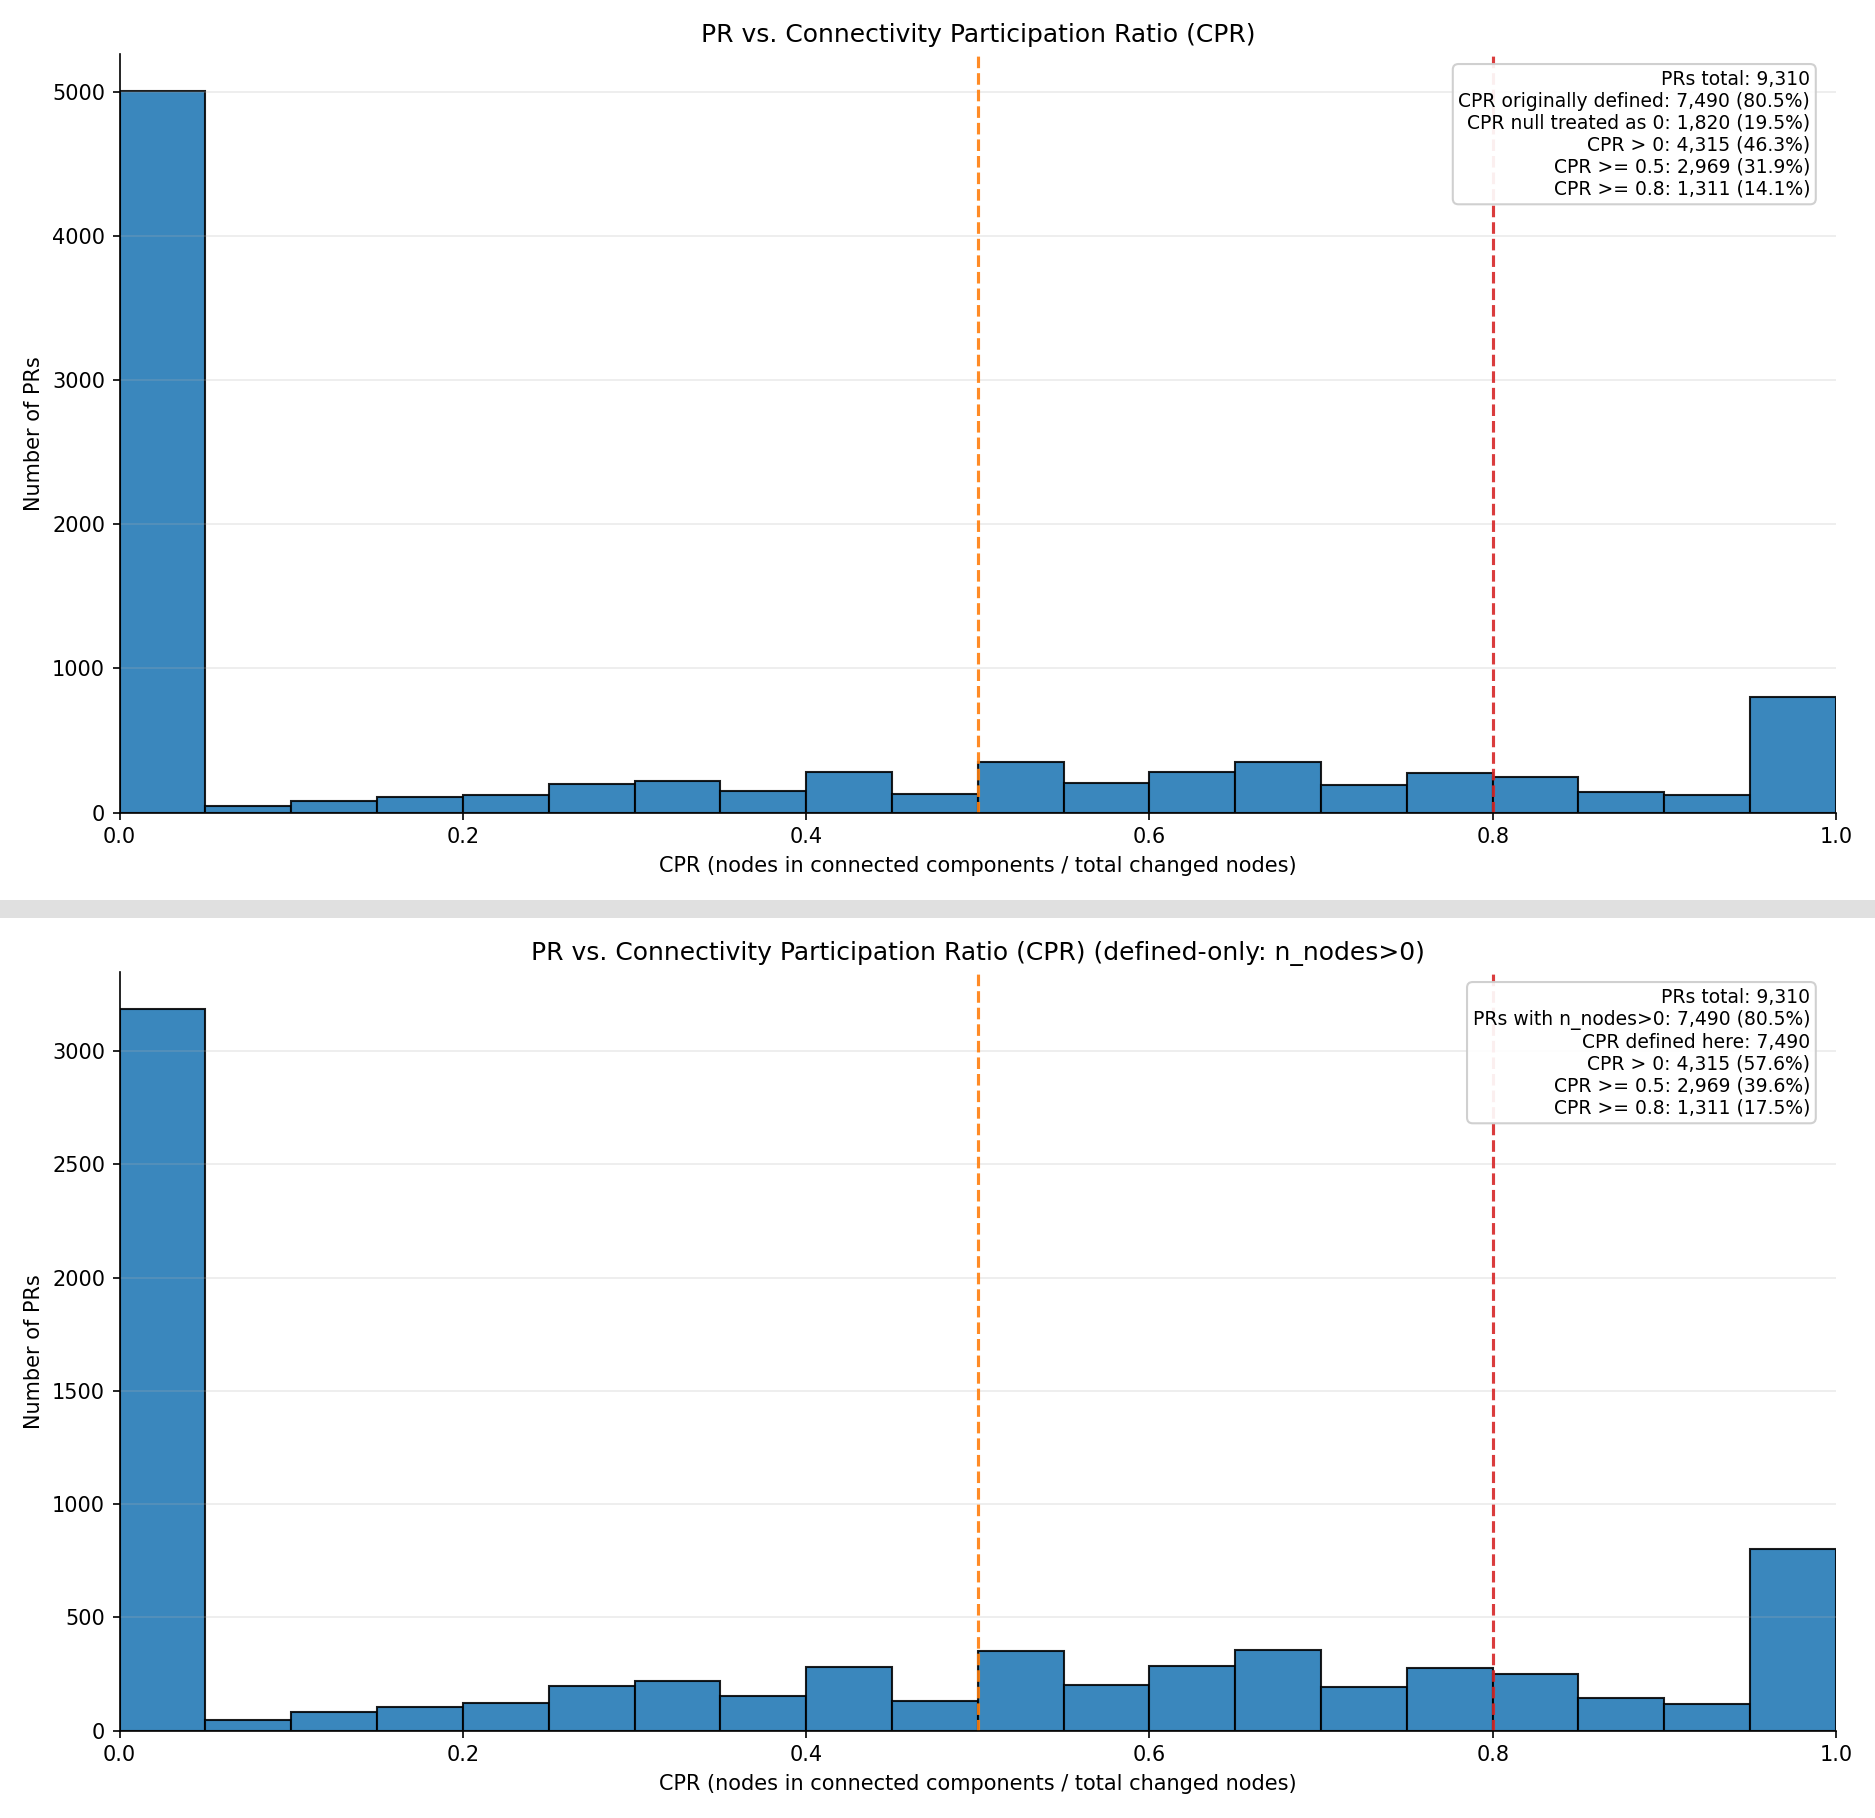
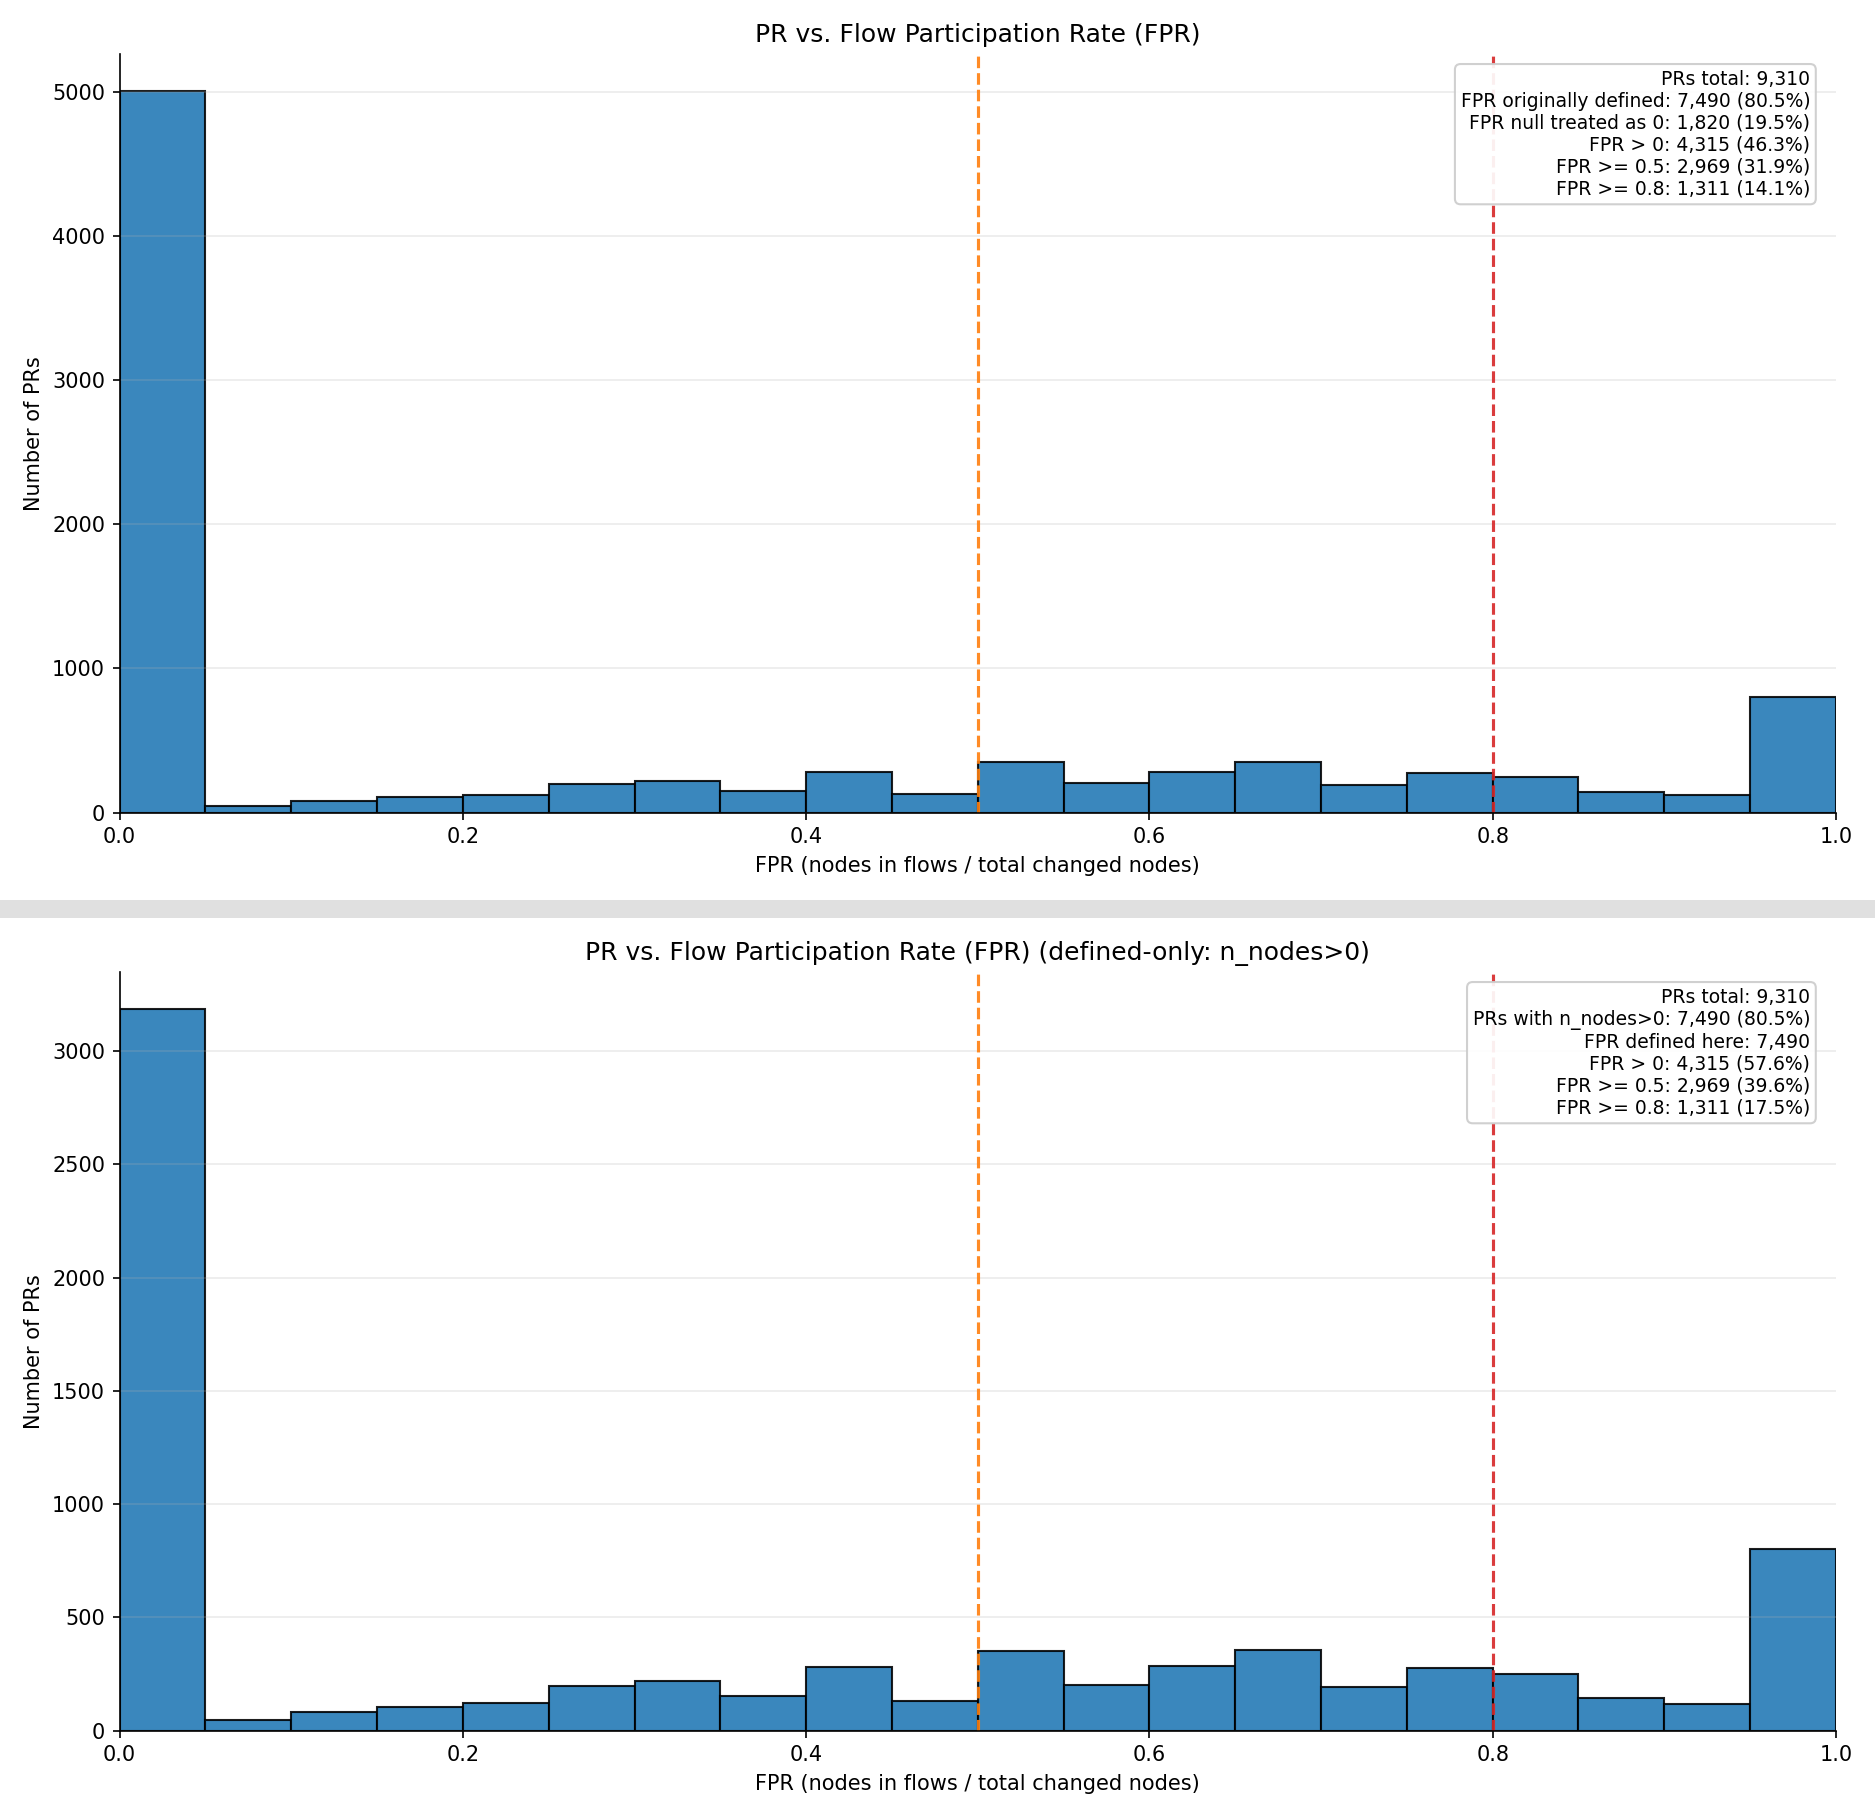
docs: rename connected component to flow

diff --git a/scripts/plot_all_repos_connectivity.py b/scripts/plot_all_repos_connectivity.py
@@ -1,6 +1,6 @@
 #!/usr/bin/env python3
 """
-Plot CPR distribution from aggregate_pr_connectivity.json.
+Plot FPR distribution from aggregate_pr_connectivity.json.
 
 Output:
   viz_output_all_repos/all_repos_pr_connectivity_cpr_histogram.png
@@ -23,13 +23,13 @@ DEFAULT_OUT_DEFINED_ONLY = (
 
 
 def build_parser() -> argparse.ArgumentParser:
-    p = argparse.ArgumentParser(description="Plot CPR distribution across PRs.")
+    p = argparse.ArgumentParser(description="Plot FPR distribution across PRs.")
     p.add_argument("--stats", type=Path, default=DEFAULT_IN, help="Connectivity JSON path")
     p.add_argument("--out", type=Path, default=DEFAULT_OUT, help="Output PNG path")
     p.add_argument(
         "--defined-only",
         action="store_true",
-        help="Only include PRs with n_nodes>0 (CPR originally defined).",
+        help="Only include PRs with n_nodes>0 (FPR originally defined).",
     )
     return p
 
@@ -97,10 +97,10 @@ def main() -> None:
     ax.hist(cprs, bins=bin_edges, edgecolor="black", alpha=0.88, color="tab:blue")
 
     ax.set_xlim(0.0, 1.0)
-    ax.set_xlabel("CPR (nodes in connected components / total changed nodes)")
+    ax.set_xlabel("FPR (nodes in flows / total changed nodes)")
     ax.set_ylabel("Number of PRs")
     title_suffix = " (defined-only: n_nodes>0)" if args.defined_only else ""
-    ax.set_title(f"PR vs. Connectivity Participation Ratio (CPR){title_suffix}")
+    ax.set_title(f"PR vs. Flow Participation Rate (FPR){title_suffix}")
 
     for x, color in ((0.5, "tab:orange"), (0.8, "tab:red")):
         ax.axvline(x, color=color, linestyle="--", linewidth=1.5, alpha=0.9)
@@ -109,19 +109,19 @@ def main() -> None:
         info = (
             f"PRs total: {n_total:,}\n"
             f"PRs with n_nodes>0: {n_nodes_pos:,} ({pct(n_nodes_pos, n_total):.1f}%)\n"
-            f"CPR defined here: {len(cprs):,}\n"
-            f"CPR > 0: {n_gt0:,} ({pct(n_gt0, n_total_effective):.1f}%)\n"
-            f"CPR >= 0.5: {n_ge50:,} ({pct(n_ge50, n_total_effective):.1f}%)\n"
-            f"CPR >= 0.8: {n_ge80:,} ({pct(n_ge80, n_total_effective):.1f}%)"
+            f"FPR defined here: {len(cprs):,}\n"
+            f"FPR > 0: {n_gt0:,} ({pct(n_gt0, n_total_effective):.1f}%)\n"
+            f"FPR >= 0.5: {n_ge50:,} ({pct(n_ge50, n_total_effective):.1f}%)\n"
+            f"FPR >= 0.8: {n_ge80:,} ({pct(n_ge80, n_total_effective):.1f}%)"
         )
     else:
         info = (
             f"PRs total: {n_total:,}\n"
-            f"CPR originally defined: {n_defined:,} ({pct(n_defined, n_total):.1f}%)\n"
-            f"CPR null treated as 0: {n_missing:,} ({pct(n_missing, n_total):.1f}%)\n"
-            f"CPR > 0: {n_gt0:,} ({pct(n_gt0, n_total_effective):.1f}%)\n"
-            f"CPR >= 0.5: {n_ge50:,} ({pct(n_ge50, n_total_effective):.1f}%)\n"
-            f"CPR >= 0.8: {n_ge80:,} ({pct(n_ge80, n_total_effective):.1f}%)"
+            f"FPR originally defined: {n_defined:,} ({pct(n_defined, n_total):.1f}%)\n"
+            f"FPR null treated as 0: {n_missing:,} ({pct(n_missing, n_total):.1f}%)\n"
+            f"FPR > 0: {n_gt0:,} ({pct(n_gt0, n_total_effective):.1f}%)\n"
+            f"FPR >= 0.5: {n_ge50:,} ({pct(n_ge50, n_total_effective):.1f}%)\n"
+            f"FPR >= 0.8: {n_ge80:,} ({pct(n_ge80, n_total_effective):.1f}%)"
         )
     ax.text(
         0.985,

diff --git a/scripts/plot_all_repos_component_count.py b/scripts/plot_all_repos_component_count.py
@@ -1,9 +1,9 @@
 #!/usr/bin/env python3
 """
-Plot distribution of the number of connected components per PR.
+Plot distribution of the number of flows per PR.
 
 Metric:
-  connected_component_count = number of connected components with size >= 2
+  connected_component_count = number of flows with size >= 2
   in the induced changed-symbol call graph.
 
 All PRs are included:
@@ -38,7 +38,7 @@ DEFAULT_OUT_DEFINED_ONLY = (
 
 def build_parser() -> argparse.ArgumentParser:
     p = argparse.ArgumentParser(
-        description="Plot connected_component_count  across all PRs."
+        description="Plot flow count across all PRs."
     )
     p.add_argument("--stats", type=Path, default=DEFAULT_IN, help="Connectivity JSON path")
     p.add_argument("--out", type=Path, default=DEFAULT_OUT, help="Output PNG path")
@@ -102,19 +102,19 @@ def main() -> None:
     ax.hist(clipped, bins=bins, edgecolor="black", alpha=0.88, color="tab:blue")
 
     ax.set_xlim(-X_AXIS_PAD, x_hi + X_AXIS_PAD)
-    ax.set_xlabel("Number of connected components per PR (size ≥ 2)")
+    ax.set_xlabel("Number of flows per PR (nodes ≥ 2)")
     ax.set_ylabel("Number of PRs")
     ax.set_title(
-        "PR vs. Connected Component Count"
+        "PR vs. Flow Count"
         + (" (defined-only: n_nodes>0)" if args.defined_only else "")
     )
 
     info_lines = [
         f"PRs total: {n_total:,}",
-        f"components > 0: {n_gt0:,} ({pct(n_gt0, n_total):.1f}%)",
+        f"flows > 0: {n_gt0:,} ({pct(n_gt0, n_total):.1f}%)",
     ]
     for t in thresholds[1:]:
-        info_lines.append(f"components ≥ {t}: {n_ge[t]:,} ({pct(n_ge[t], n_total):.1f}%)")
+        info_lines.append(f"flows ≥ {t}: {n_ge[t]:,} ({pct(n_ge[t], n_total):.1f}%)")
 
     if merged_tail:
         info_lines.append(f"Tail merged at {x_hi}+: {format_share_pct(sum(1 for c in counts if c > x_hi), n_total)}")

diff --git a/scripts/plot_all_repos_largest_component.py b/scripts/plot_all_repos_largest_component.py
@@ -1,17 +1,17 @@
 #!/usr/bin/env python3
-"""Plot largest connected-component size per PR.
+"""Plot largest flow size per PR.
 
 We exclude singletons from the metric by construction:
-- If a PR has >=1 connected component (size >= 2),
+- If a PR has >=1 flow (size >= 2),
   largest = max(connected_component_sizes).
-- Otherwise (no connected components, including n_nodes==0),
+- Otherwise (no flows, including n_nodes==0),
   largest = 0.
 
 Two variants are supported:
 - Default: include all PRs (including n_nodes==0) and treat missing as 0.
 - --defined-only: only include PRs with n_nodes>0.
 
-The goal is a CPR-like histogram where zeros represent "no connected components"
+The goal is an FPR-like histogram where zeros represent "no flows"
 under this multi-node definition.
 
 Output (default):
@@ -45,7 +45,7 @@ DEFAULT_OUT_DEFINED_ONLY = (
 
 
 def build_parser() -> argparse.ArgumentParser:
-    p = argparse.ArgumentParser(description="Largest connected component size across PRs.")
+    p = argparse.ArgumentParser(description="Largest flow size across PRs.")
     p.add_argument("--stats", type=Path, default=DEFAULT_IN, help="Connectivity JSON path")
     p.add_argument("--out", type=Path, default=DEFAULT_OUT, help="Output PNG path")
     p.add_argument(
@@ -126,10 +126,10 @@ def main() -> None:
     ax.hist(clipped, bins=bins, edgecolor="black", alpha=0.88, color="tab:blue")
 
     ax.set_xlim(-X_AXIS_PAD, x_hi + X_AXIS_PAD)
-    ax.set_xlabel("Largest connected component size (nodes; 0 means none)")
+    ax.set_xlabel("Largest flow size (nodes; 0 means none)")
     ax.set_ylabel("Number of PRs")
     ax.set_title(
-        "PR vs. Largest Connected Component Size"
+        "PR vs. Largest Flow Size"
         + (" (defined-only: n_nodes>0)" if args.defined_only else "")
     )
 

diff --git a/scripts/plot_all_repos_median_component.py b/scripts/plot_all_repos_median_component.py
@@ -1,10 +1,10 @@
 #!/usr/bin/env python3
-"""Plot per-PR median component size across PRs.
+"""Plot per-PR median flow size across PRs.
 
 We exclude singletons from the metric by construction:
-- For a PR with >=1 connected component (size >= 2),
+- For a PR with >=1 flow (size >= 2),
   value = median(connected_component_sizes).
-- Otherwise (no connected components, including n_nodes==0),
+- Otherwise (no flows, including n_nodes==0),
   value = 0.
 
 --defined-only drops PRs with n_nodes==0.
@@ -47,7 +47,7 @@ DEFAULT_OUT_DEFINED_ONLY = (
 
 
 def build_parser() -> argparse.ArgumentParser:
-    p = argparse.ArgumentParser(description="Median connected component size across PRs.")
+    p = argparse.ArgumentParser(description="Median flow size across PRs.")
     p.add_argument("--stats", type=Path, default=DEFAULT_IN, help="Connectivity JSON path")
     p.add_argument("--out", type=Path, default=DEFAULT_OUT, help="Output PNG path")
     p.add_argument(
@@ -130,10 +130,10 @@ def main() -> None:
     ax.hist(clipped2, bins=bins, edgecolor="black", alpha=0.88, color="tab:purple")
 
     ax.set_xlim(-X_AXIS_PAD, x_hi2 + X_AXIS_PAD)
-    ax.set_xlabel("Median connected component size (nodes; 0 means none)")
+    ax.set_xlabel("Median flow size (nodes; 0 means none)")
     ax.set_ylabel("Number of PRs")
     ax.set_title(
-        "PR vs. Median Connected Component Size"
+        "PR vs. Median Flow Size"
         + (" (defined-only: n_nodes>0)" if args.defined_only else "")
     )
 

diff --git a/README.md b/README.md
@@ -11,22 +11,22 @@
 
 ---
 
-2) PR vs. Connectivity Participation Ratio (CPR)  
-![PR vs. Connectivity Participation Ratio (CPR)](./viz_output_all_repos/all_repos_pr_connectivity_cpr_histogram_merged.png)
+2) PR vs. Flow Participation Ratio (FPR)  
+![PR vs. Flow Participation Ratio (FPR)](./viz_output_all_repos/all_repos_pr_connectivity_cpr_histogram_merged.png)
 
 ---
 
-3) PR vs. Connected Component Count
+3) PR vs. Flow Count
 
-![PR vs. Component Count](./viz_output_all_repos/all_repos_pr_component_count_histogram_merged.png)
+![PR vs. Flow Count](./viz_output_all_repos/all_repos_pr_Flow_count_histogram_merged.png)
 
 ---
 
 
-4) PR vs. Largest Connected Component Size 
-![PR vs. Largest Component Size](./viz_output_all_repos/all_repos_pr_largest_component_histogram_merged.png)
+4) PR vs. Largest Flow Size 
+![PR vs. Largest Flow Size](./viz_output_all_repos/all_repos_pr_largest_Flow_histogram_merged.png)
 
 --- 
 
-5) PR vs. Median Connected Component Size
-![PR vs. Median Component Size](./viz_output_all_repos/all_repos_pr_median_component_histogram_merged.png)
+5) PR vs. Median Flow Size
+![PR vs. Median Flow Size](./viz_output_all_repos/all_repos_pr_median_Flow_histogram_merged.png)
